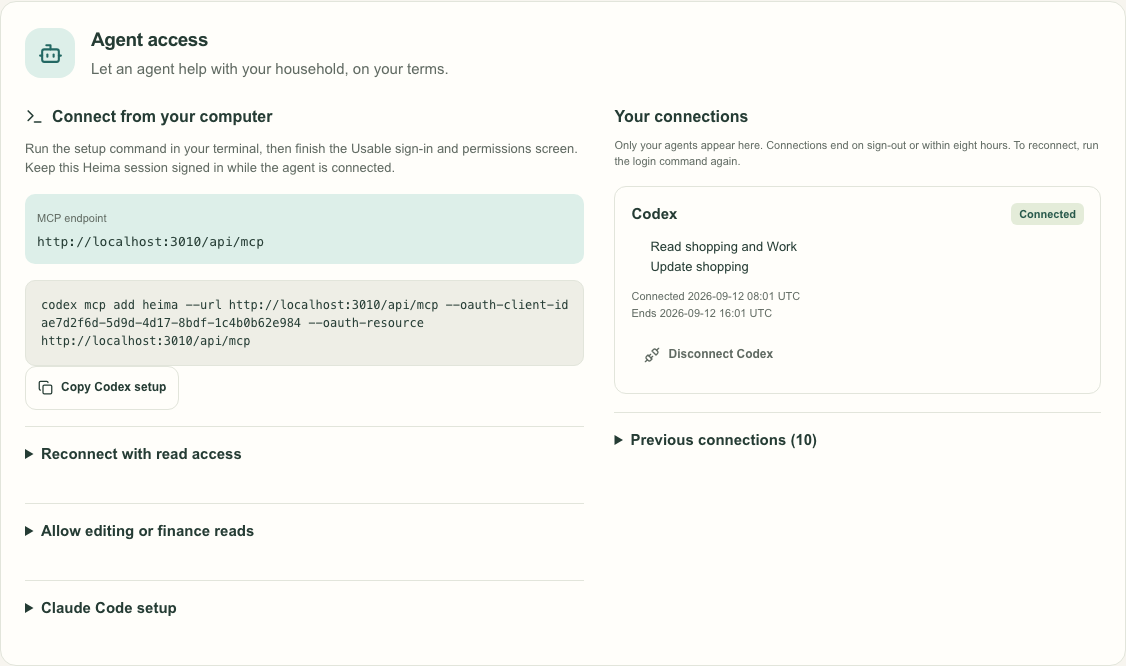
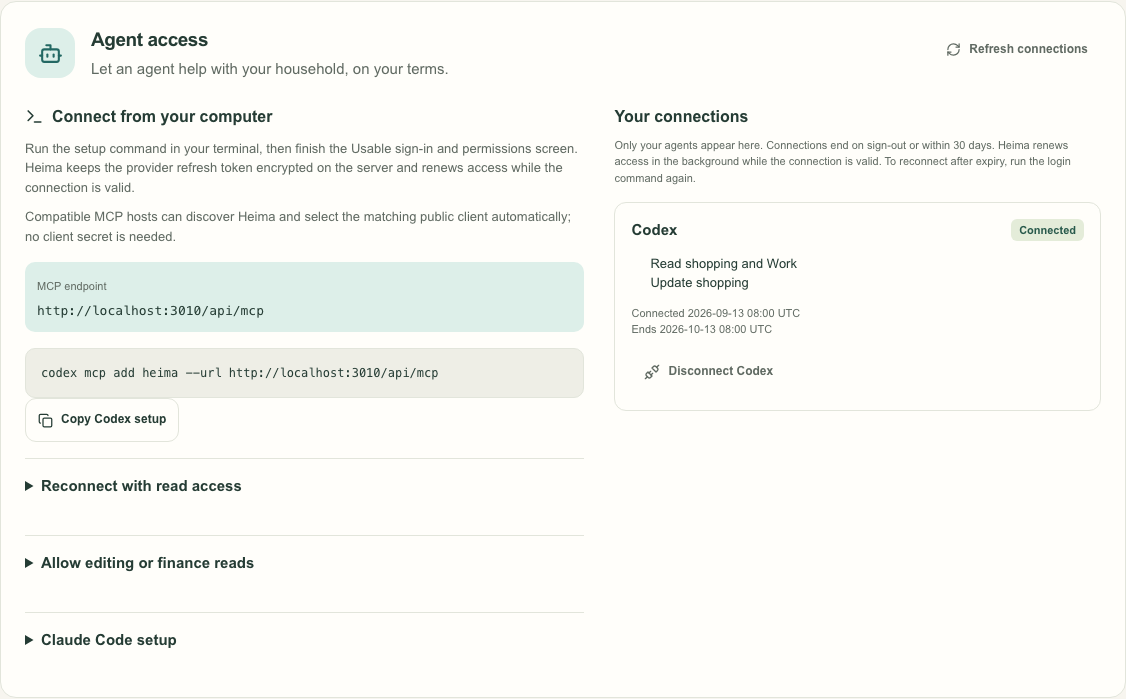
fix: keep offline OAuth sessions alive (#13)
* fix(auth): persist offline refresh sessions for 30 days

* test(auth): grant offline access to fixture users

* fix(auth): require offline refresh grants

* fix(agents): refresh connection status promptly

* test(agents): refresh connection evidence

* fix(agents): explain empty connection state

* test(agents): verify external connection discovery

* test(agents): wait for login redirect before polling

* docs(agents): date connection evidence

* test(auth): await post-login navigation

---------

diff --git a/apps/web/src/components/agents/access-panel.tsx b/apps/web/src/components/agents/access-panel.tsx
@@ -1,6 +1,6 @@
 "use client";
 import { useQuery } from "@tanstack/react-query";
-import { Bot, Check, LoaderCircle, Unplug } from "lucide-react";
+import { Bot, Check, LoaderCircle, RefreshCw, Unplug } from "lucide-react";
 import { useRef, useState } from "react";
 import { loadAgentAccess } from "@/lib/agent-access-actions";
 import { revokeAgentConnection } from "@/lib/oauth/actions";
@@ -20,7 +20,12 @@ export function AgentAccessPanel() {
       if (!result.ok) throw new Error(result.message);
       return result.data;
     },
-    refetchInterval: 60000,
+    // OAuth approval happens in the agent host, so this page cannot receive
+    // an invalidation event from that browser. Keep the list fresh while the
+    // settings page is open and always recheck when returning to it.
+    refetchInterval: 5000,
+    refetchIntervalInBackground: true,
+    refetchOnMount: "always",
   });
   const [selected, setSelected] = useState<AgentConnection | null>(null);
   const [pending, setPending] = useState(false);
@@ -35,16 +40,29 @@ export function AgentAccessPanel() {
       className="section-gap"
     >
       <Card className="card-pad agent-access-card">
-        <div className="agent-access-heading">
-          <span className="agent-emblem">
-            <Bot size={25} />
-          </span>
-          <div>
-            <h2 id="agent-access-heading" ref={heading} tabIndex={-1}>
-              Agent access
-            </h2>
-            <p>Let an agent help with your household, on your terms.</p>
+        <div className="row-between wrap agent-access-toolbar">
+          <div className="agent-access-heading">
+            <span className="agent-emblem">
+              <Bot size={25} />
+            </span>
+            <div>
+              <h2 id="agent-access-heading" ref={heading} tabIndex={-1}>
+                Agent access
+              </h2>
+              <p>Let an agent help with your household, on your terms.</p>
+            </div>
           </div>
+          <Button
+            variant="ghost"
+            size="compact"
+            className="agent-access-refresh"
+            onClick={() => void query.refetch()}
+            disabled={query.isFetching}
+            aria-label="Refresh agent connections"
+          >
+            <RefreshCw size={15} className={query.isFetching ? "spin" : ""} />
+            {query.isFetching ? "Refreshing…" : "Refresh connections"}
+          </Button>
         </div>
         {notice && (
           <p className="notice" role="status">

diff --git a/tests/e2e/agent-access.spec.ts b/tests/e2e/agent-access.spec.ts
@@ -124,6 +124,59 @@ test("agent access offers token-free setup inside Household settings", async ({
   );
 });
 
+test("household connection list notices approval in another agent host", async ({
+  browser,
+  page,
+}, info) => {
+  test.setTimeout(120_000);
+  await signInForOAuth(page, "admin2");
+  await page.goto("/settings/household");
+  const panel = page.getByRole("region", {
+    name: "Agent access",
+    exact: true,
+  });
+  await expect(panel).toBeVisible();
+  const active = () =>
+    panel
+      .locator(".agent-connection")
+      .filter({ has: page.getByText("Connected", { exact: true }) });
+  while (await active().count()) {
+    await active()
+      .first()
+      .getByRole("button", { name: /Disconnect/ })
+      .click();
+    await page
+      .getByRole("dialog")
+      .getByRole("button", { name: "Disconnect agent", exact: true })
+      .click();
+  }
+  const agentContext = await browser.newContext({
+    baseURL: "http://localhost:3010",
+  });
+  try {
+    const agent = await agentContext.newPage();
+    await signInForOAuth(agent, "admin2");
+    const flow = await beginOAuth(agent, ["heima.read"]);
+    const tokens = await approveOAuth(agent, flow);
+    await expect(active()).toHaveCount(1, { timeout: 15_000 });
+    await screenshotPanel(
+      page,
+      panel,
+      info.outputPath("agent-connected-external-refresh-390.png"),
+    );
+    const revoked = await agent.request.post("/api/oauth/revoke", {
+      form: { client_id: oauthClientId, token: tokens.refreshToken },
+    });
+    expect(revoked.status()).toBe(200);
+    await expect(active()).toHaveCount(0, { timeout: 15_000 });
+    await expect(panel.getByText(/Previous connections \(\d+\)/)).toBeVisible();
+  } finally {
+    await agentContext.close();
+    await page.goto("/settings/household");
+    await page.getByRole("button", { name: "Sign out", exact: true }).click();
+  }
+});
+
 test("an expired consent request provides a safe reconnect path", async ({
   page,
 }, info) => {

diff --git a/scripts/test-setup.ts b/scripts/test-setup.ts
@@ -210,6 +210,44 @@ for (const user of realm.users.slice(3)) {
   if (!added.ok && added.status !== 409)
     throw new Error(`Local test identity provisioning failed: ${added.status}`);
 }
+const offlineRoleResponse = await fetch(
+  `${base}/admin/realms/heima-test/roles/offline_access`,
+  { headers: adminHeaders },
+);
+if (!offlineRoleResponse.ok)
+  throw new Error("Local offline_access role could not be read");
+const offlineRole = await offlineRoleResponse.json();
+for (const fixtureUser of realm.users) {
+  const usersResponse = await fetch(
+    `${base}/admin/realms/heima-test/users?username=${encodeURIComponent(fixtureUser.username)}`,
+    { headers: adminHeaders },
+  );
+  if (!usersResponse.ok)
+    throw new Error("Local test identity could not be looked up");
+  const user = (await usersResponse.json()).find(
+    (entry: { username?: string }) => entry.username === fixtureUser.username,
+  );
+  if (!user?.id) continue;
+  const rolesResponse = await fetch(
+    `${base}/admin/realms/heima-test/users/${user.id}/role-mappings/realm`,
+    { headers: adminHeaders },
+  );
+  if (!rolesResponse.ok)
+    throw new Error("Local test identity roles could not be read");
+  const roles = await rolesResponse.json();
+  if (roles.some((role: { name?: string }) => role.name === "offline_access"))
+    continue;
+  const assigned = await fetch(
+    `${base}/admin/realms/heima-test/users/${user.id}/role-mappings/realm`,
+    {
+      method: "POST",
+      headers: { ...adminHeaders, "content-type": "application/json" },
+      body: JSON.stringify([offlineRole]),
+    },
+  );
+  if (!assigned.ok)
+    throw new Error("Local offline_access role could not be assigned");
+}
 // Declare only this fixture identity attribute: Admin REST tests can change the
 // spouse claim without changing mappers, signing tokens themselves, or owner data.
 const profileUrl = `${base}/admin/realms/heima-test/users/profile`;

diff --git a/apps/web/src/auth.ts b/apps/web/src/auth.ts
@@ -4,6 +4,7 @@ import { env } from "@/lib/env";
 import {
   createProviderSession,
   destroyProviderSession,
+  PROVIDER_SESSION_MAX_AGE_SECONDS,
   verifyProviderToken,
 } from "@/lib/session-store";
 
@@ -15,7 +16,11 @@ const provider: OAuthConfig<Record<string, unknown>> = {
   clientId: env.USABLE_CLIENT_ID,
   clientSecret: env.USABLE_CLIENT_SECRET,
   checks: ["pkce", "state", "nonce"],
-  authorization: { params: { scope: "openid profile email" } },
+  // Request an offline-capable provider refresh token. The token remains
+  // encrypted in the server-only session store; it is never sent to the UI.
+  authorization: {
+    params: { scope: "openid profile email offline_access" },
+  },
   profile(profile) {
     return {
       id: String(profile.sub),
@@ -28,11 +33,14 @@ export const { auth, handlers, signIn, signOut } = NextAuth({
   secret: env.AUTH_SECRET,
   trustHost: true,
   providers: [provider],
-  session: { strategy: "jwt", maxAge: 8 * 60 * 60 },
+  session: { strategy: "jwt", maxAge: PROVIDER_SESSION_MAX_AGE_SECONDS },
   pages: { signIn: "/", error: "/auth/error" },
   callbacks: {
     async signIn({ account }) {
-      if (!account?.access_token) return false;
+      // A long-lived Heima session requires the provider's offline refresh
+      // grant. Never create a session that will silently die with the first
+      // short-lived access token.
+      if (!account?.access_token || !account.refresh_token) return false;
       try {
         await verifyProviderToken(account.access_token);
         return true;

diff --git a/tests/e2e/session.spec.ts b/tests/e2e/session.spec.ts
@@ -61,7 +61,20 @@ test("opaque browser session is unusable after local and provider logout", async
   browser,
 }, info) => {
   await page.goto("/");
+  const providerAuth = page.waitForRequest((request) => {
+    try {
+      return new URL(request.url()).pathname.endsWith(
+        "/protocol/openid-connect/auth",
+      );
+    } catch {
+      return false;
+    }
+  });
   await page.getByRole("button", { name: "Continue with Usable" }).click();
+  const requestedScopes = new URL((await providerAuth).url()).searchParams
+    .get("scope")
+    ?.split(" ");
+  expect(requestedScopes).toContain("offline_access");
   await page.locator("#username").fill("owner@heima.test");
   await page.locator("#password").fill(settings.TEST_USER_PASSWORD!);
   await page.locator("#kc-login").click();
@@ -77,6 +90,12 @@ test("opaque browser session is unusable after local and provider logout", async
   expect(lease.headers()["cache-control"]).toBe("no-store");
   expect((await lease.json()).expiresAt).toBeGreaterThan(Date.now());
   const copiedCookies = await page.context().cookies();
+  const sessionCookie = copiedCookies.find(
+    (cookie) => cookie.name === "authjs.session-token",
+  );
+  expect(sessionCookie?.expires).toBeGreaterThan(
+    Date.now() / 1000 + 29 * 24 * 60 * 60,
+  );
   await page.goto("/settings/household");
   await page.getByRole("button", { name: "Sign out", exact: true }).click();
   await expect(

diff --git a/apps/web/src/components/agents/connections.tsx b/apps/web/src/components/agents/connections.tsx
@@ -59,8 +59,9 @@ export function AgentConnections({
     <div className="agent-connections">
       <h3>Your connections</h3>
       <p className="field-hint">
-        Only your agents appear here. Connections end on sign-out or within
-        eight hours. To reconnect, run the login command again.
+        Only your agents appear here. Connections end on sign-out or within 30
+        days. Heima renews access in the background while the connection is
+        valid. To reconnect after expiry, run the login command again.
       </p>
       {active.length ? (
         active.map(row)
@@ -68,11 +69,14 @@ export function AgentConnections({
         <EmptyState
           icon={<Bot size={27} />}
           title="No agents connected"
-          description="Connect an agent when you need a hand. Read access is the starting point."
+          description="No active connection is visible for this signed-in account. After approving an agent, return here and refresh. Read access is the starting point."
         />
       )}
       {previous.length > 0 && (
-        <details className="agent-connection-history">
+        <details
+          className="agent-connection-history"
+          open={active.length === 0}
+        >
           <summary>Previous connections ({previous.length})</summary>
           {previous.map(row)}
         </details>

diff --git a/apps/web/src/lib/session-store.ts b/apps/web/src/lib/session-store.ts
@@ -17,6 +17,11 @@ type ProviderTokens = {
   idToken?: string;
   expiresAt: number;
 };
+// Keep the browser session and its delegated MCP grants alive long enough for
+// an offline-capable Usable refresh token to do its job. The provider remains
+// authoritative: a revoked or expired refresh token still ends the session.
+export const PROVIDER_SESSION_MAX_AGE_SECONDS = 30 * 24 * 60 * 60;
+const PROVIDER_SESSION_MAX_AGE_MS = PROVIDER_SESSION_MAX_AGE_SECONDS * 1000;
 let connection: ReturnType<typeof postgres> | undefined;
 function sql() {
   connection ??= postgres(env.DATABASE_URL, {
@@ -85,7 +90,7 @@ export async function verifyProviderToken(accessToken: string) {
 export async function createProviderSession(tokens: ProviderTokens) {
   const identity = await verifyProviderToken(tokens.accessToken);
   const id = randomUUID();
-  await sql()`insert into auth_sessions (id, user_id, encrypted_tokens, expires_at) values (${id}, ${identity.userId}, ${encrypt(tokens)}, ${new Date(Date.now() + 8 * 60 * 60 * 1000)})`;
+  await sql()`insert into auth_sessions (id, user_id, encrypted_tokens, expires_at) values (${id}, ${identity.userId}, ${encrypt(tokens)}, ${new Date(Date.now() + PROVIDER_SESSION_MAX_AGE_MS)})`;
   return { id, ...identity };
 }
 export async function sessionBearer(id: string): Promise<string | null> {

diff --git a/scripts/verify-oauth-durability.ts b/scripts/verify-oauth-durability.ts
@@ -24,6 +24,7 @@ for (const line of readFileSync(".env.test.local", "utf8").split("\n")) {
   if (at > 0) process.env[line.slice(0, at)] = line.slice(at + 1);
 }
 const schema = `heima_oauthproof_${Date.now()}`;
+const PROVIDER_SESSION_MAX_AGE_MS = 30 * 24 * 60 * 60 * 1000;
 const reserve = createServer();
 reserve.listen(0, "127.0.0.1");
 await once(reserve, "listening");
@@ -336,7 +337,7 @@ try {
   ).toBe(405);
   receipt.revocationSurvivesRestart = true;
 
-  await start(8 * 60 * 60 * 1000 + 60_000);
+  await start(PROVIDER_SESSION_MAX_AGE_MS + 60_000);
   expect(
     (
       await page.request.get(`${origin}/api/mcp`, {
@@ -346,7 +347,7 @@ try {
   ).toBe(401);
   expect((await refresh(winner.refresh_token)).status()).toBe(400);
   receipt.absoluteSessionExpiry = {
-    advancedClockSeconds: 28860,
+    advancedClockSeconds: Math.floor(PROVIDER_SESSION_MAX_AGE_MS / 1000) + 60,
     accessStatus: 401,
     refreshStatus: 400,
   };

diff --git a/apps/web/src/components/agents/setup.tsx b/apps/web/src/components/agents/setup.tsx
@@ -46,8 +46,8 @@ export function AgentSetup({ data }: { data: AgentAccessView }) {
       </h3>
       <p>
         Run the setup command in your terminal, then finish the Usable sign-in
-        and permissions screen. Keep this Heima session signed in while the
-        agent is connected.
+        and permissions screen. Heima keeps the provider refresh token encrypted
+        on the server and renews access while the connection is valid.
       </p>
       <p className="field-hint">
         Compatible MCP hosts can discover Heima and select the matching public

diff --git a/tests/fixtures/oauth.ts b/tests/fixtures/oauth.ts
@@ -42,6 +42,9 @@ export async function signInForOAuth(
   await page.locator("#password").fill(password);
   await page.locator("#kc-login").click();
   await expect(page).toHaveURL(`${origin}/`, { timeout: 30_000 });
+  // WebKit can report the redirect URL before the final document navigation
+  // has settled; callers often navigate straight to the feature under test.
+  await page.waitForLoadState("load");
 }
 
 export async function beginOAuth(

diff --git a/apps/web/src/app/globals.css b/apps/web/src/app/globals.css
@@ -2680,6 +2680,16 @@ html[data-capture="true"][data-action-notice="true"] .page-content {
 .agent-access-heading {
   margin-bottom: 24px;
 }
+.agent-access-toolbar {
+  align-items: flex-start;
+  margin-bottom: 24px;
+}
+.agent-access-toolbar .agent-access-heading {
+  margin-bottom: 0;
+}
+.agent-access-refresh {
+  margin-top: 2px;
+}
 .agent-access-heading p {
   margin-top: 4px;
   color: var(--muted-foreground);

diff --git a/README.md b/README.md
@@ -49,7 +49,7 @@ The initial `add` command starts OAuth automatically. Some MCP hosts call an RFC
 
 Read access to Shopping and Work (`heima.read`) is the default. Agent access offers optional reauthorization for Shopping changes (`heima.shopping.write`), Work changes (`heima.work.write`) and permitted Finance reads (`heima.finance.read`). Each optional permission needs your approval. Agents retain your existing household and personal-data boundaries. Finance tools preserve exact amounts and cannot write transactions, import statements or change accounts.
 
-Connections last up to eight hours and depend on the Heima session used to approve them. Signing out of that session ends its agent access. Revoke a connection in Agent access to deny its next request; reconnect there when it expires.
+Connections last up to 30 days and depend on the Heima session used to approve them. Heima keeps the provider refresh token encrypted on the server and rotates it when access tokens expire; neither provider nor MCP refresh tokens are exposed to browser code. Signing out of that session ends its agent access. Revoke a connection in Agent access to deny its next request; reconnect there when it expires.
 
 The public [agent access evidence manifest](docs/screenshots/mcp-agent-access/manifest.json) lists the local browser paths, screenshot hashes and verification limits.
 
